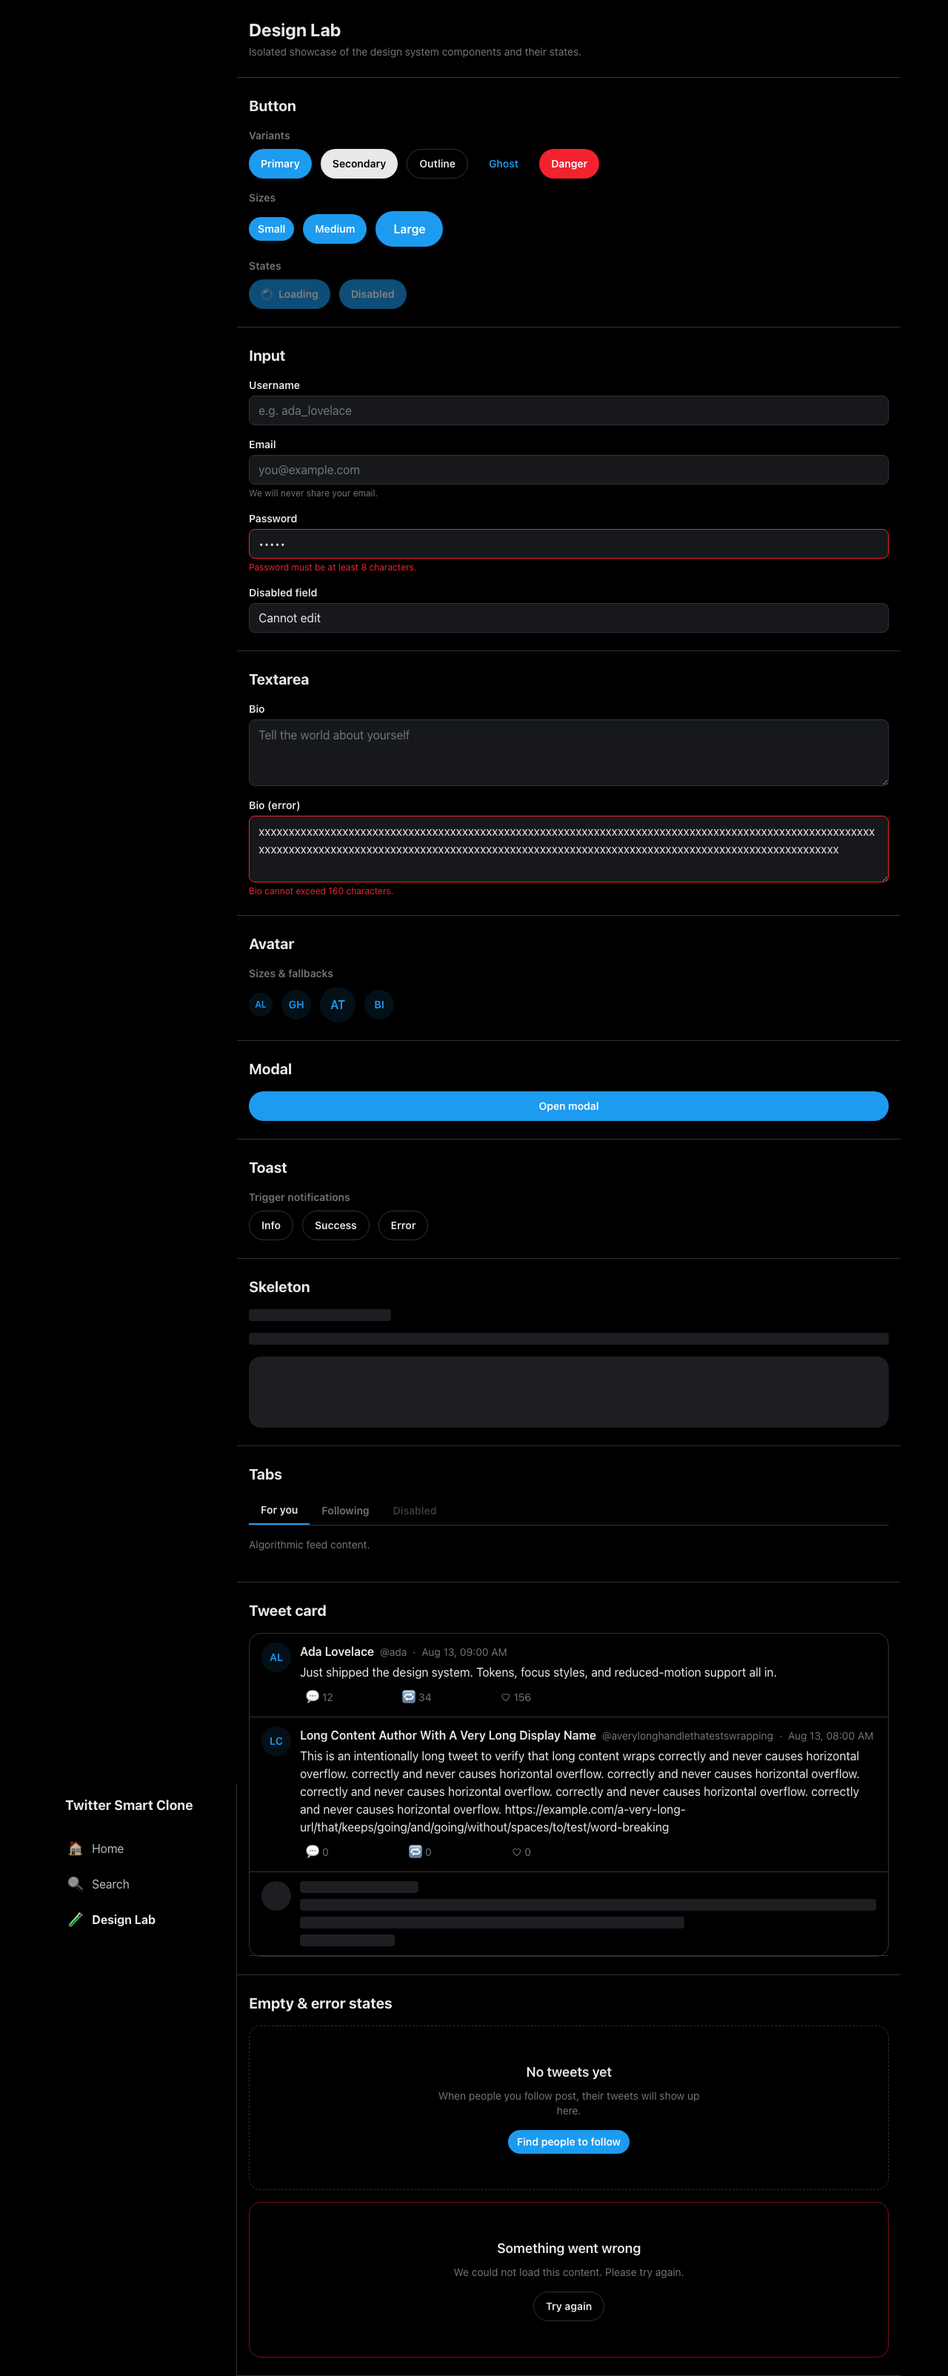
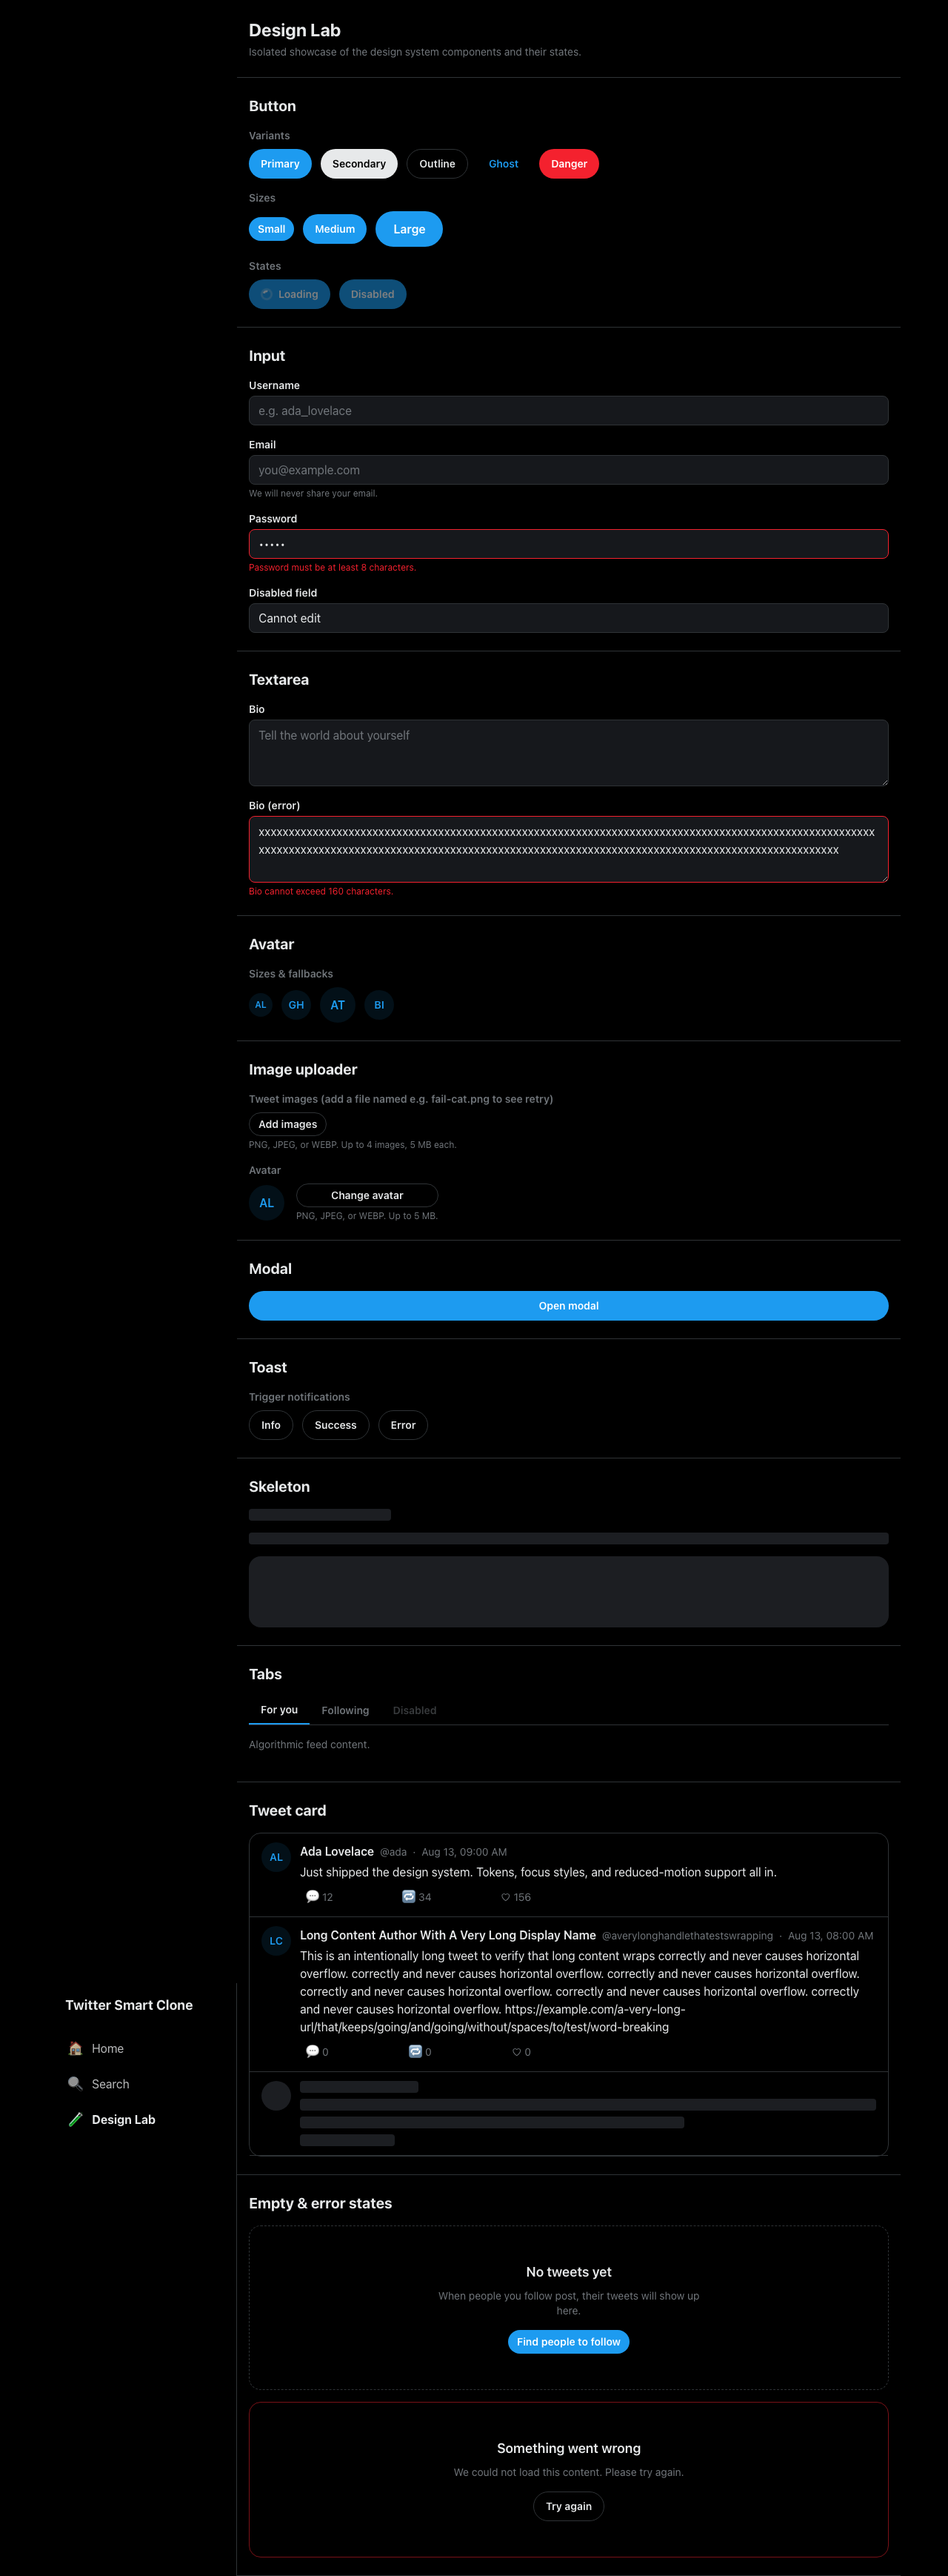
[TSC-MEDIA-002] Add Playwright e2e evidence for the image uploader
media-upload.spec.ts drives the /lab "Image uploader" section (fake
adapter, no backend) through empty -> uploading -> partial-failure ->
complete, screenshotting each state to test-results/screenshots/, plus a
keyboard-operability check for the reorder controls. Regenerates the
existing /lab breakpoint screenshots (docs/design-system/screenshots/) since
the lab page now includes the uploader section; those specs still pass with
no horizontal overflow at 375/768/1280px and reduced-motion respected.

diff --git a/frontend/tests/features/media/useImageUploader.test.tsx b/frontend/tests/features/media/useImageUploader.test.tsx
@@ -39,7 +39,7 @@ function makeControllableAdapter() {
       }
       onProgress(100)
     },
-    async confirmOne(purpose, key, file) {
+    async confirmOne(_purpose, key, file) {
       confirmCalls.push(file.name)
       return { key, content_type: file.type, size_bytes: file.size }
     },
@@ -60,7 +60,9 @@ describe('useImageUploader', () => {
       result.current.addFiles([makeFile('zebra.png'), makeFile('apple.png')])
     })
 
-    await waitFor(() => expect(result.current.items.every((i) => i.status === 'success')).toBe(true))
+    await waitFor(() =>
+      expect(result.current.items.every((i) => i.status === 'success')).toBe(true),
+    )
 
     // Order matches selection order (zebra, then apple), not alphabetical or
     // network-completion order.
@@ -71,7 +73,9 @@ describe('useImageUploader', () => {
 
   it('rejects invalid type/size/count before any network call, with reasons exposed for accessible feedback', () => {
     const { adapter, presignCalls } = makeControllableAdapter()
-    const { result } = renderHook(() => useImageUploader({ purpose: 'tweet_image', maxFiles: 2, adapter }))
+    const { result } = renderHook(() =>
+      useImageUploader({ purpose: 'tweet_image', maxFiles: 2, adapter }),
+    )
 
     act(() => {
       result.current.addFiles([
@@ -89,7 +93,9 @@ describe('useImageUploader', () => {
 
   it('rejects a selection that exceeds maxFiles without uploading the overflow', () => {
     const { adapter, presignCalls } = makeControllableAdapter()
-    const { result } = renderHook(() => useImageUploader({ purpose: 'tweet_image', maxFiles: 2, adapter }))
+    const { result } = renderHook(() =>
+      useImageUploader({ purpose: 'tweet_image', maxFiles: 2, adapter }),
+    )
 
     act(() => {
       result.current.addFiles([makeFile('a.png'), makeFile('b.png'), makeFile('c.png')])
@@ -103,7 +109,9 @@ describe('useImageUploader', () => {
   it('retrying a failed item does not duplicate or re-upload the already-successful ones', async () => {
     const { adapter, presignCalls, confirmCalls, shouldFail } = makeControllableAdapter()
     shouldFail.add('broken.png')
-    const { result } = renderHook(() => useImageUploader({ purpose: 'tweet_image', maxFiles: 4, adapter }))
+    const { result } = renderHook(() =>
+      useImageUploader({ purpose: 'tweet_image', maxFiles: 4, adapter }),
+    )
 
     act(() => {
       result.current.addFiles([makeFile('good.png'), makeFile('broken.png')])
@@ -146,7 +154,9 @@ describe('useImageUploader', () => {
     act(() => {
       result.current.addFiles([makeFile('one.png'), makeFile('two.png')])
     })
-    await waitFor(() => expect(result.current.items.every((i) => i.status === 'success')).toBe(true))
+    await waitFor(() =>
+      expect(result.current.items.every((i) => i.status === 'success')).toBe(true),
+    )
 
     const oneId = result.current.items.find((i) => i.file.name === 'one.png')!.id
     const oneUrl = result.current.items.find((i) => i.file.name === 'one.png')!.previewUrl
@@ -183,7 +193,9 @@ describe('useImageUploader', () => {
   it('replacing a single-file (avatar) selection revokes the previous preview URL', async () => {
     const { adapter } = makeControllableAdapter()
     const revokeSpy = vi.spyOn(URL, 'revokeObjectURL')
-    const { result } = renderHook(() => useImageUploader({ purpose: 'avatar', maxFiles: 1, adapter }))
+    const { result } = renderHook(() =>
+      useImageUploader({ purpose: 'avatar', maxFiles: 1, adapter }),
+    )
 
     act(() => {
       result.current.addFiles([makeFile('first.png')])
@@ -211,7 +223,9 @@ describe('useImageUploader', () => {
     act(() => {
       result.current.addFiles([makeFile('one.png'), makeFile('two.png')])
     })
-    await waitFor(() => expect(result.current.items.every((i) => i.status === 'success')).toBe(true))
+    await waitFor(() =>
+      expect(result.current.items.every((i) => i.status === 'success')).toBe(true),
+    )
 
     const oneId = result.current.items.find((i) => i.file.name === 'one.png')!.id
     act(() => {

diff --git a/frontend/e2e/media-upload.spec.ts b/frontend/e2e/media-upload.spec.ts
@@ -1,0 +1,79 @@
+import { readFileSync } from 'node:fs'
+import { fileURLToPath } from 'node:url'
+import { test, expect } from '@playwright/test'
+
+/**
+ * Visual + interaction evidence for the reusable image uploader
+ * (TSC-MEDIA-002 verification: "attach screenshots of empty, uploading,
+ * partial-failure, and complete states"). Uses the `/lab` component lab's
+ * "Image uploader" section, which is wired to the deterministic fake
+ * adapter (no real network — same "no backend in e2e" convention as
+ * `lab.spec.ts`/`profile-search.spec.ts`). The fake adapter fails any file
+ * named `fail-*` on upload, which is what drives the partial-failure state.
+ */
+
+const SAMPLE_PNG = readFileSync(fileURLToPath(new URL('./fixtures/sample.png', import.meta.url)))
+
+test.describe('Image uploader (component lab)', () => {
+  test('empty, uploading, partial-failure, and complete states', async ({ page }) => {
+    await page.goto('/lab')
+    const section = page.locator('section', {
+      has: page.getByRole('heading', { name: 'Image uploader' }),
+    })
+    await section.scrollIntoViewIfNeeded()
+
+    // --- empty ---
+    await expect(section.getByRole('button', { name: 'Add images' })).toBeVisible()
+    await expect(section.locator('ul[role="alert"]')).toHaveCount(0)
+    await page.screenshot({ path: 'test-results/screenshots/media-upload-empty.png' })
+
+    // --- uploading ---
+    const tweetImagesInput = section.locator('input[type="file"]').first()
+    await tweetImagesInput.setInputFiles([
+      { name: 'good-cat.png', mimeType: 'image/png', buffer: SAMPLE_PNG },
+      { name: 'fail-dog.png', mimeType: 'image/png', buffer: SAMPLE_PNG },
+    ])
+    // The fake adapter reports progress in steps ~120ms apart; catch it
+    // mid-flight before either item settles.
+    await expect(section.getByText(/Uploading…/).first()).toBeVisible()
+    await page.screenshot({ path: 'test-results/screenshots/media-upload-uploading.png' })
+
+    // --- partial failure ---
+    await expect(section.getByText('Uploaded')).toBeVisible()
+    await expect(section.getByText('Simulated network failure during upload.')).toBeVisible()
+    await expect(section.getByRole('button', { name: 'Retry' })).toBeVisible()
+    await page.screenshot({ path: 'test-results/screenshots/media-upload-partial-failure.png' })
+
+    // --- complete (after removing the still-failed item rather than
+    // retrying, proving "remove" clears a failure without touching the
+    // successful upload) ---
+    await section.getByRole('button', { name: 'Remove' }).last().click()
+    await expect(section.getByText('Simulated network failure during upload.')).not.toBeVisible()
+    await expect(section.getByText('Uploaded')).toBeVisible()
+    await page.screenshot({ path: 'test-results/screenshots/media-upload-complete.png' })
+  })
+
+  test('reorder and retry controls are keyboard-operable', async ({ page }) => {
+    await page.goto('/lab')
+    const section = page.locator('section', {
+      has: page.getByRole('heading', { name: 'Image uploader' }),
+    })
+    await section.scrollIntoViewIfNeeded()
+
+    const tweetImagesInput = section.locator('input[type="file"]').first()
+    await tweetImagesInput.setInputFiles([
+      { name: 'first.png', mimeType: 'image/png', buffer: SAMPLE_PNG },
+      { name: 'second.png', mimeType: 'image/png', buffer: SAMPLE_PNG },
+    ])
+    await expect(section.getByText('Uploaded')).toHaveCount(2)
+
+    const moveLater = section.getByRole('button', { name: 'Move image 1 later' })
+    await moveLater.focus()
+    await expect(moveLater).toBeFocused()
+    await page.keyboard.press('Enter')
+
+    // First item moved to position 2: its "move later" control is now the
+    // disabled one, proving the keyboard activation actually reordered.
+    await expect(section.getByRole('button', { name: 'Move image 2 later' })).toBeDisabled()
+  })
+})

diff --git a/frontend/tests/features/media/ImageUploader.test.tsx b/frontend/tests/features/media/ImageUploader.test.tsx
@@ -43,14 +43,28 @@ const permissiveUser = () => userEvent.setup({ applyAccept: false })
 
 describe('ImageUploader', () => {
   it('is empty by default and shows the picker control', () => {
-    render(<ImageUploader label="Tweet images" purpose="tweet_image" maxFiles={4} adapter={partialFailureAdapter} />)
+    render(
+      <ImageUploader
+        label="Tweet images"
+        purpose="tweet_image"
+        maxFiles={4}
+        adapter={partialFailureAdapter}
+      />,
+    )
     expect(screen.getByRole('button', { name: 'Add images' })).toBeInTheDocument()
     expect(screen.queryByRole('list')).not.toBeInTheDocument()
   })
 
   it('rejects an invalid file before upload and announces it accessibly', async () => {
     const user = permissiveUser()
-    render(<ImageUploader label="Tweet images" purpose="tweet_image" maxFiles={4} adapter={partialFailureAdapter} />)
+    render(
+      <ImageUploader
+        label="Tweet images"
+        purpose="tweet_image"
+        maxFiles={4}
+        adapter={partialFailureAdapter}
+      />,
+    )
 
     await selectFiles(user, [makeFile('resume.pdf', 'application/pdf')])
 
@@ -62,7 +76,14 @@ describe('ImageUploader', () => {
 
   it('uploads valid files and reaches the complete state', async () => {
     const user = userEvent.setup()
-    render(<ImageUploader label="Tweet images" purpose="tweet_image" maxFiles={4} adapter={partialFailureAdapter} />)
+    render(
+      <ImageUploader
+        label="Tweet images"
+        purpose="tweet_image"
+        maxFiles={4}
+        adapter={partialFailureAdapter}
+      />,
+    )
 
     await selectFiles(user, [makeFile('cat.png')])
 
@@ -71,7 +92,14 @@ describe('ImageUploader', () => {
 
   it('shows a partial-failure state with retry, and retry recovers without touching the successful item', async () => {
     const user = userEvent.setup()
-    render(<ImageUploader label="Tweet images" purpose="tweet_image" maxFiles={4} adapter={partialFailureAdapter} />)
+    render(
+      <ImageUploader
+        label="Tweet images"
+        purpose="tweet_image"
+        maxFiles={4}
+        adapter={partialFailureAdapter}
+      />,
+    )
 
     await selectFiles(user, [makeFile('good.png'), makeFile('fail-bad.png')])
 
@@ -82,7 +110,14 @@ describe('ImageUploader', () => {
 
   it('is keyboard operable: Tab reaches the picker and reorder controls, Enter/Space activates them', async () => {
     const user = userEvent.setup()
-    render(<ImageUploader label="Tweet images" purpose="tweet_image" maxFiles={4} adapter={partialFailureAdapter} />)
+    render(
+      <ImageUploader
+        label="Tweet images"
+        purpose="tweet_image"
+        maxFiles={4}
+        adapter={partialFailureAdapter}
+      />,
+    )
 
     await selectFiles(user, [makeFile('one.png'), makeFile('two.png')])
     await waitFor(() => expect(screen.getAllByText('Uploaded')).toHaveLength(2))
@@ -101,7 +136,12 @@ describe('ImageUploader', () => {
   it('has no accessibility violations in the partial-failure state', async () => {
     const user = userEvent.setup()
     const { container } = render(
-      <ImageUploader label="Tweet images" purpose="tweet_image" maxFiles={4} adapter={partialFailureAdapter} />,
+      <ImageUploader
+        label="Tweet images"
+        purpose="tweet_image"
+        maxFiles={4}
+        adapter={partialFailureAdapter}
+      />,
     )
 
     await selectFiles(user, [makeFile('good.png'), makeFile('fail-bad.png')])

diff --git a/frontend/tests/routes/ProfileEditAvatar.test.tsx b/frontend/tests/routes/ProfileEditAvatar.test.tsx
@@ -21,7 +21,9 @@ const UPLOAD_URL = 'https://storage.test/upload/avatar-abc123'
 const AVATAR_KEY = 'avatar/user-1/abc123.png'
 const AVATAR_URL = 'http://localhost:9000/twitter-smart-clone-media/avatar/user-1/abc123.png'
 
-function mockAuthenticatedSession(user: typeof testUser = testUser) {
+function mockAuthenticatedSession(
+  user: Omit<typeof testUser, 'avatar_key'> & { avatar_key: string | null } = testUser,
+) {
   server.use(
     http.post('*/api/v1/auth/refresh', () =>
       HttpResponse.json({ access_token: 'restored-token', token_type: 'bearer', expires_in: 900 }),
@@ -68,7 +70,7 @@ describe('Avatar upload on the profile-edit screen', () => {
     await goToEditScreen(user)
 
     const file = new File([new Uint8Array(1024)], 'me.png', { type: 'image/png' })
-    await user.upload(screen.getByLabelText('Avatar', { selector: 'input' }), file)
+    await user.upload(screen.getByRole('group', { name: 'Avatar' }).querySelector('input')!, file)
 
     // Immediately after upload the uploader shows its own local object-URL
     // preview (instant feedback) rather than round-tripping through the
@@ -77,7 +79,7 @@ describe('Avatar upload on the profile-edit screen', () => {
     // `avatar_key` URL is asserted in the "after reload" test below, which
     // is what the acceptance criterion is actually about.
     await waitFor(() => {
-      const avatarImg = screen.getByAltText('Ada Lovelace', { selector: 'img' })
+      const avatarImg = screen.getByRole('img', { name: 'Ada Lovelace' })
       expect(avatarImg.getAttribute('src')).toMatch(/^blob:/)
     })
     expect(screen.queryByRole('alert')).not.toBeInTheDocument()
@@ -109,7 +111,7 @@ describe('Avatar upload on the profile-edit screen', () => {
     const user = userEvent.setup()
     await user.click(screen.getByText('Signed in as @ada'))
 
-    const avatarImg = await screen.findByAltText('Ada Lovelace', { selector: 'img' })
+    const avatarImg = await screen.findByRole('img', { name: 'Ada Lovelace' })
     expect(avatarImg).toHaveAttribute('src', AVATAR_URL)
   })
 
